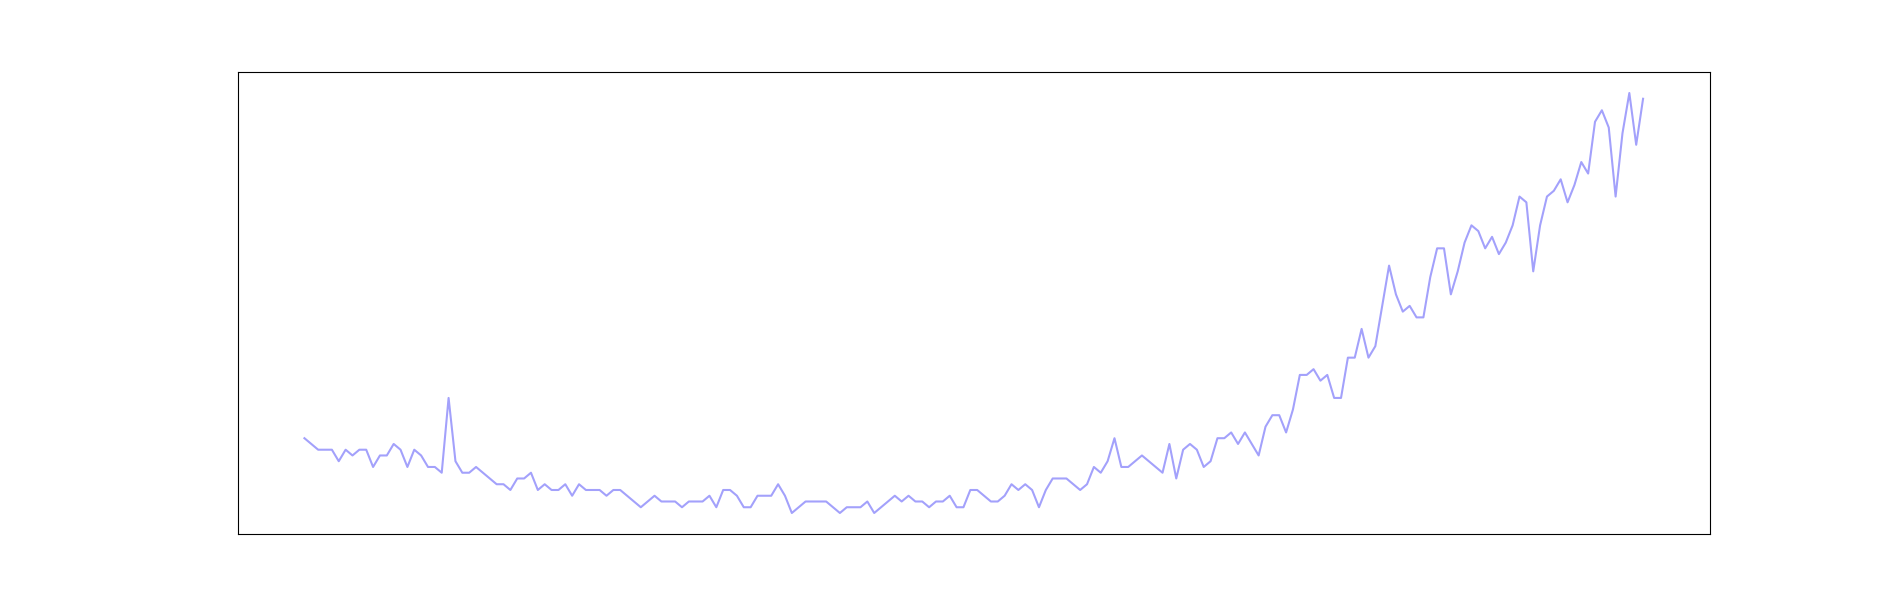
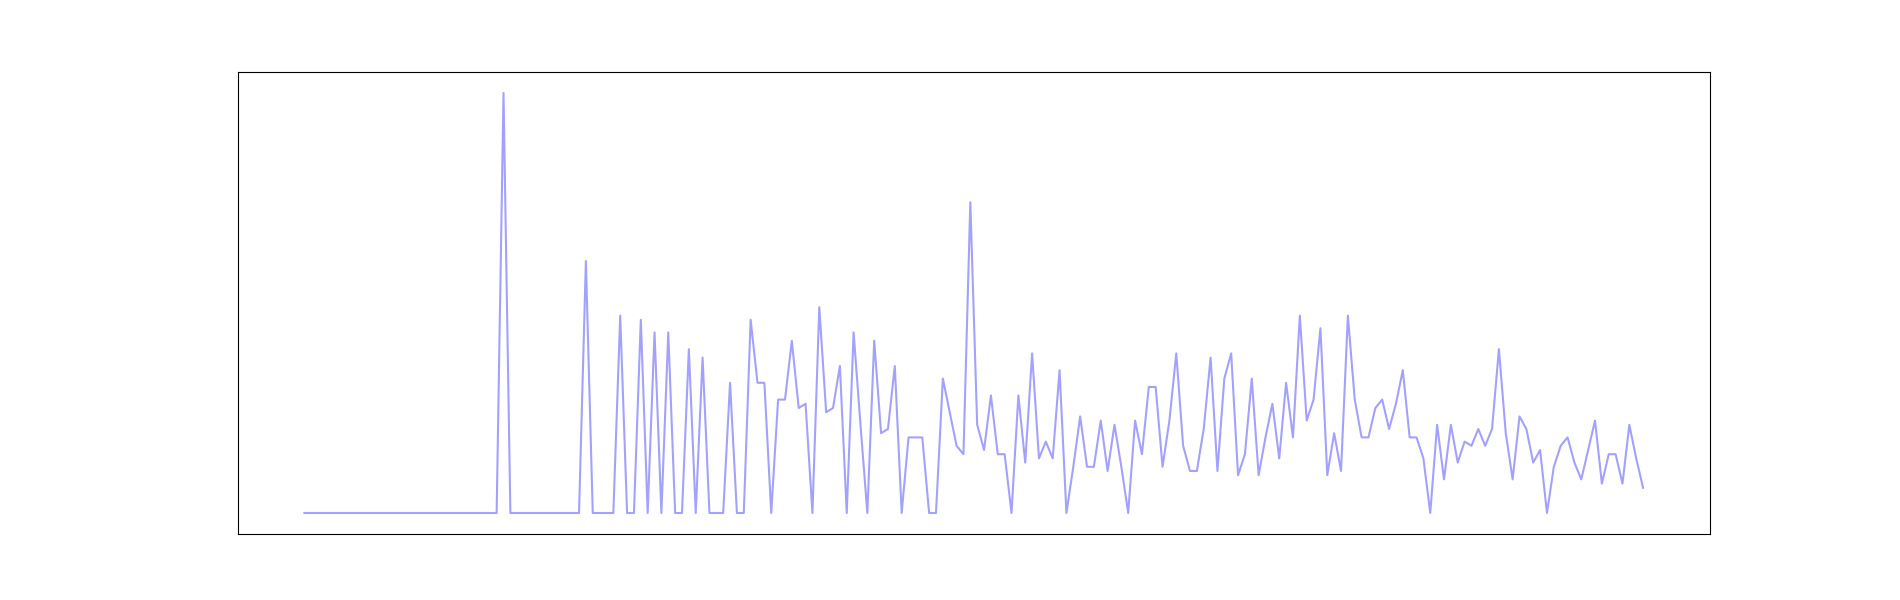
v0.6.5

diff --git a/FrontEnd/routes/searchKeyword.js b/FrontEnd/routes/searchKeyword.js
@@ -17,6 +17,20 @@ router.route('/add').post((req, res) => {
     
 });
 
+router.route('/add').get((req, res) => {
+    runPythonScriptwhatIsTrending();
+    console.log("get-response-whatIsSearchedToday")
+})
+
+//function to run python file what is Searched Today 
+function runPythonScriptwhatIsTrending(req, res) {
+
+    var spawn = require("child_process").spawn;
+    var process = spawn('python', ["./pyFiles/whatisSearchedToday.py"
+    ]);
+    console.log("Running Python Script : What Is Searched Today")
+}
+
 
 router.route('/add/load').get((req, res) => {
     connectDatabase()

diff --git a/FrontEnd/routes/todayTrends.js b/FrontEnd/routes/todayTrends.js
@@ -7,7 +7,7 @@ const mongoose = require('mongoose');
 
 //route for top trends (/)
 router.route('/').get((req, res) => {
-    whatsTrendingTodayPython();
+    // whatsTrendingTodayPython();
 
     //local db 
     // mongoose.connect('mongodb://localhost:27017/' + 'whatIsSearchedToday' + '?readPreference=primary&appname=MongoDB%20Compass%20Community&ssl=false', { useNewUrlParser: true, useCreateIndex: true, useUnifiedTopology: true });

diff --git a/FrontEnd/client/src/components/home-component/search-bar.js b/FrontEnd/client/src/components/home-component/search-bar.js
@@ -30,6 +30,11 @@ class SearchBar extends React.Component {
     }
   }
 
+  componentDidMount() {
+    axios.get('http://localhost:5000/search/add')
+    
+}
+
 //validate keyword entered 
   validate = () => {
     let searchError: '',
